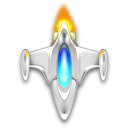
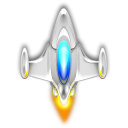
update.

Changed region(s): [[0.1562, 0.0312, 0.8438, 0.9688]]

diff --git a/src/au/com/spacebattle/scene/SpaceShipScene.java b/src/au/com/spacebattle/scene/SpaceShipScene.java
@@ -5,8 +5,12 @@
  */
 package au.com.spacebattle.scene;
 
-import au.com.rmit.Game2dEngine.action.MoveXYByAction;
-import au.com.rmit.Game2dEngine.action.MoveXYToAction;
+import au.com.rmit.Game2dEngine.action.AlphaByAction;
+import au.com.rmit.Game2dEngine.action.AlphaToAction;
+import au.com.rmit.Game2dEngine.action.MoveXByAction;
+import au.com.rmit.Game2dEngine.action.MoveXToAction;
+import au.com.rmit.Game2dEngine.action.MoveYByAction;
+import au.com.rmit.Game2dEngine.action.MoveYToAction;
 import au.com.rmit.Game2dEngine.gravity.Gravity;
 import au.com.rmit.Game2dEngine.node.Sprite;
 import au.com.rmit.Game2dEngine.scene.Scene;
@@ -66,72 +70,125 @@ public class SpaceShipScene extends Scene
                 int width = 100;
                 int height = 100;
                 aObject = new MySpaceship(e.getX() - width / 2, e.getY() - height / 2, width, height, 0, 0, 0);
-                addSprite(aObject);
                 aObject.lifetime = Sprite.EVER;
                 aObject.bDeadIfNoActions = true;
 //                aObject.applyGravity(g);
 
-                for (int i = 0; i < 10; i++)
                 {
-                    {
-                        MoveXYByAction aMoveXYByAction = new MoveXYByAction();
-
-                        int indexX = (int) power(-1, (int) abs(theRandom.nextInt() % 10));
-                        int indexY = (int) power(-1, (int) abs(theRandom.nextInt() % 10));
-                        int randomX = indexX * (int) (abs(theRandom.nextInt()) % 400);
-                        int randomY = indexY * (int) (abs(theRandom.nextInt()) % 400);
-                        int timeX = (int) (abs(theRandom.nextInt()) % 2 + 2);
-                        int timeY = (int) (abs(theRandom.nextInt()) % 2 + 2);
-
-                        System.out.println("randomX: " + randomX + " in " + timeX + "seconds");
-                        System.out.println("randomY: " + randomY + " in " + timeY + "seconds");
-
-                        aMoveXYByAction.moveXBy(randomX, timeX);
-                        aMoveXYByAction.moveYBy(randomY, timeY);
-
-                        aObject.addAction(aMoveXYByAction);
-                    }
-
-                    {
-                        MoveXYToAction aMoveXYToAction = new MoveXYToAction(aObject);
-
-                        int randomX = (int) (abs(theRandom.nextInt()) % getWidth());
-                        int randomY = (int) (abs(theRandom.nextInt()) % getHeight());
-                        int timeX = (int) (abs(theRandom.nextInt()) % 2 + 2);
-                        int timeY = (int) (abs(theRandom.nextInt()) % 2 + 2);
-
-                        System.out.println("MoveXTo: " + randomX + " in " + timeX + "seconds");
-                        System.out.println("MoveYTo: " + randomY + " in " + timeY + "seconds");
-
-                        aMoveXYToAction.moveXTo(randomX, timeX);
-                        aMoveXYToAction.moveYTo(randomY, timeY);
-
-                        aObject.addAction(aMoveXYToAction);
-                    }
+                    MoveXByAction aAction = new MoveXByAction();
+                    int indexX = (int) power(-1, (int) abs(theRandom.nextInt() % 10));
+                    int randomX = indexX * (int) (abs(theRandom.nextInt()) % 400);
+                    int timeX = (int) (abs(theRandom.nextInt()) % 2 + 2);
+                    System.out.println("MoveXBy: " + randomX + " in " + timeX + "seconds");
+                    aAction.moveXBy(randomX, timeX);
+                    aObject.addAction(aAction);
                 }
-//                for (int i = 0; i < 10; i++)
+
+                {
+                    MoveYByAction aAction = new MoveYByAction();
+                    int indexY = (int) power(-1, (int) abs(theRandom.nextInt() % 10));
+                    int randomY = indexY * (int) (abs(theRandom.nextInt()) % 400);
+                    int timeY = (int) (abs(theRandom.nextInt()) % 2 + 2);
+                    System.out.println("MoveYBy: " + randomY + " in " + timeY + "seconds");
+                    aAction.moveYBy(randomY, timeY);
+                    aObject.addAction(aAction);
+                }
+
+                {
+                    MoveXToAction aAction = new MoveXToAction(aObject);
+                    int randomX = (int) (abs(theRandom.nextInt()) % getWidth());
+                    int timeX = (int) (abs(theRandom.nextInt()) % 2 + 2);
+                    System.out.println("MoveXTo: " + randomX + " in " + timeX + "seconds");
+                    aAction.moveXTo(randomX, timeX);
+                    aObject.addAction(aAction);
+                }
+
+                {
+                    MoveYToAction aAction = new MoveYToAction(aObject);
+                    int randomY = (int) (abs(theRandom.nextInt()) % getHeight());
+                    int timeY = (int) (abs(theRandom.nextInt()) % 2 + 2);
+                    System.out.println("MoveYTo: " + randomY + " in " + timeY + "seconds");
+                    aAction.moveYTo(randomY, timeY);
+                    aObject.addAction(aAction);
+                }
 //                {
-//                    ScaleWidthHeightByAction aScaleWidthHeightByAction = new ScaleWidthHeightByAction();
-//
+//                    ScaleWidthByAction aAction = new ScaleWidthByAction();
 //                    int indexX = (int) power(-1, (int) abs(theRandom.nextInt() % 10));
-//                    int indexY = (int) power(-1, (int) abs(theRandom.nextInt() % 10));
 //                    int randomX = indexX * (int) (abs(theRandom.nextInt()) % 300);
-//                    int randomY = indexY * (int) (abs(theRandom.nextInt()) % 300);
 //                    int timeX = (int) (abs(theRandom.nextInt()) % 2 + 2);
-//                    int timeY = (int) (abs(theRandom.nextInt()) % 2 + 2);
-//
 //                    System.out.println("Scale Width By: " + randomX + " in " + timeX + "seconds");
+//                    aAction.scaleWidthBy(randomX, timeX);
+//                    aObject.addAction(aAction);
+//                }
+//
+//                {
+//                    ScaleHeightByAction aAction = new ScaleHeightByAction();
+//                    int indexY = (int) power(-1, (int) abs(theRandom.nextInt() % 10));
+//                    int randomY = indexY * (int) (abs(theRandom.nextInt()) % 300);
+//                    int timeY = (int) (abs(theRandom.nextInt()) % 2 + 2);
 //                    System.out.println("Scale Height By: " + randomY + " in " + timeY + "seconds");
+//                    aAction.scaleHeightBy(randomY, timeY);
+//                    aObject.addAction(aAction);
+//                }
 //
-//                    aScaleWidthHeightByAction.scaleWidthBy(randomX, timeX);
-//                    aScaleWidthHeightByAction.scaleHeightBy(randomY, timeY);
+//                {
+//                    ScaleWidthToAction aAction = new ScaleWidthToAction(aObject);
+//                    int randomX = (int) (abs(theRandom.nextInt()) % 300);
+//                    int timeX = (int) (abs(theRandom.nextInt()) % 2 + 2);
+//                    System.out.println("Scale Width To: " + randomX + " in " + timeX + "seconds");
+//                    aAction.ScaleWidthTo(randomX, timeX);
+//                    aObject.addAction(aAction);
+//                }
 //
-//                    aObject.addAction(aScaleWidthHeightByAction);
+//                {
+//                    ScaleHeightToAction aAction = new ScaleHeightToAction(aObject);
+//                    int randomY = (int) (abs(theRandom.nextInt()) % 300);
+//                    int timeY = (int) (abs(theRandom.nextInt()) % 2 + 2);
+//                    System.out.println("Scale Height To: " + randomY + " in " + timeY + "seconds");
+//                    aAction.ScaleHeightTo(randomY, timeY);
+//                    aObject.addAction(aAction);
 //                }
 
+//                    {
+//                        RotateByAction aAction = new RotateByAction();
+//                        int index = (int) power(-1, (int) abs(theRandom.nextInt() % 10));
+//                        float angle = (float) (index * (abs(theRandom.nextFloat()) * 2 * Math.PI));
+//                        int time = (int) (abs(theRandom.nextInt()) % 2 + 2);
+//                        System.out.println("Rotate By: " + angle + " in " + time + "seconds");
+//                        aAction.rotateBy(angle, time);
+//                        aObject.addAction(aAction);
+//                    }
+//                    {
+//                        RotateToAction aAction = new RotateToAction(aObject);
+//                        float angle = (float) (abs(theRandom.nextFloat()) * 2 * Math.PI);
+//                        int time = (int) (abs(theRandom.nextInt()) % 2 + 2);
+//                        System.out.println("Rotate To: " + angle + " in " + time + "seconds");
+//                        aAction.rotateTo(angle, time);
+//                        aObject.addAction(aAction);
+//                    }
+                {
+                    AlphaByAction aAction = new AlphaByAction();
+                    float alpha = -1 * (float) ((abs(theRandom.nextInt()) % 10) / 10.0);
+                    int time = (int) (abs(theRandom.nextInt()) % 2 + 2);
+                    System.out.println("AlphaBy: " + alpha + " in " + time + "seconds");
+                    aAction.alphaBy(alpha, time);
+                    aObject.addAction(aAction);
+                }
+
+                {
+                    AlphaToAction aAction = new AlphaToAction(aObject);
+                    float alpha = (float) ((abs(theRandom.nextInt()) % 10) / 10.0);
+                    int time = (int) (abs(theRandom.nextInt()) % 2 + 2);
+                    System.out.println("AlphaTo: " + alpha + " in " + time + "seconds");
+                    aAction.alphaTo(alpha, time);
+                    aObject.addAction(aAction);
+                }
+
+                addSprite(aObject);
             }
 
             @Override
+
             public void mouseReleased(MouseEvent e)
             {
             }
@@ -145,7 +202,8 @@ public class SpaceShipScene extends Scene
             public void mouseExited(MouseEvent e)
             {
             }
-        });
+        }
+        );
 
 //        Timer aTimer;
 //        aTimer = new Timer(100, new ActionListener()

diff --git a/src/au/com/spacebattle/main/FrameMain.java b/src/au/com/spacebattle/main/FrameMain.java
@@ -42,6 +42,7 @@ public class FrameMain extends javax.swing.JFrame
 
         panelGame = new javax.swing.JPanel();
         btnSpaceShip = new javax.swing.JButton();
+        btnPause = new javax.swing.JButton();
 
         setDefaultCloseOperation(javax.swing.WindowConstants.EXIT_ON_CLOSE);
         addWindowListener(new java.awt.event.WindowAdapter()
@@ -74,6 +75,15 @@ public class FrameMain extends javax.swing.JFrame
             }
         });
 
+        btnPause.setText("Pause");
+        btnPause.addActionListener(new java.awt.event.ActionListener()
+        {
+            public void actionPerformed(java.awt.event.ActionEvent evt)
+            {
+                btnPauseActionPerformed(evt);
+            }
+        });
+
         javax.swing.GroupLayout layout = new javax.swing.GroupLayout(getContentPane());
         getContentPane().setLayout(layout);
         layout.setHorizontalGroup(
@@ -81,14 +91,18 @@ public class FrameMain extends javax.swing.JFrame
             .addGroup(layout.createSequentialGroup()
                 .addContainerGap()
                 .addComponent(btnSpaceShip)
-                .addContainerGap(668, Short.MAX_VALUE))
+                .addPreferredGap(javax.swing.LayoutStyle.ComponentPlacement.UNRELATED)
+                .addComponent(btnPause)
+                .addContainerGap(598, Short.MAX_VALUE))
             .addComponent(panelGame, javax.swing.GroupLayout.Alignment.TRAILING, javax.swing.GroupLayout.DEFAULT_SIZE, javax.swing.GroupLayout.DEFAULT_SIZE, Short.MAX_VALUE)
         );
         layout.setVerticalGroup(
             layout.createParallelGroup(javax.swing.GroupLayout.Alignment.LEADING)
             .addGroup(layout.createSequentialGroup()
                 .addContainerGap()
-                .addComponent(btnSpaceShip)
+                .addGroup(layout.createParallelGroup(javax.swing.GroupLayout.Alignment.BASELINE)
+                    .addComponent(btnSpaceShip)
+                    .addComponent(btnPause))
                 .addPreferredGap(javax.swing.LayoutStyle.ComponentPlacement.RELATED)
                 .addComponent(panelGame, javax.swing.GroupLayout.DEFAULT_SIZE, javax.swing.GroupLayout.DEFAULT_SIZE, Short.MAX_VALUE))
         );
@@ -107,7 +121,14 @@ public class FrameMain extends javax.swing.JFrame
         Director.getSharedInstance().showScene(new SpaceShipScene());
     }//GEN-LAST:event_btnSpaceShipActionPerformed
 
+    private void btnPauseActionPerformed(java.awt.event.ActionEvent evt)//GEN-FIRST:event_btnPauseActionPerformed
+    {//GEN-HEADEREND:event_btnPauseActionPerformed
+        // TODO add your handling code here:
+        Director.getSharedInstance().pause();
+    }//GEN-LAST:event_btnPauseActionPerformed
+
     // Variables declaration - do not modify//GEN-BEGIN:variables
+    private javax.swing.JButton btnPause;
     private javax.swing.JButton btnSpaceShip;
     private javax.swing.JPanel panelGame;
     // End of variables declaration//GEN-END:variables
